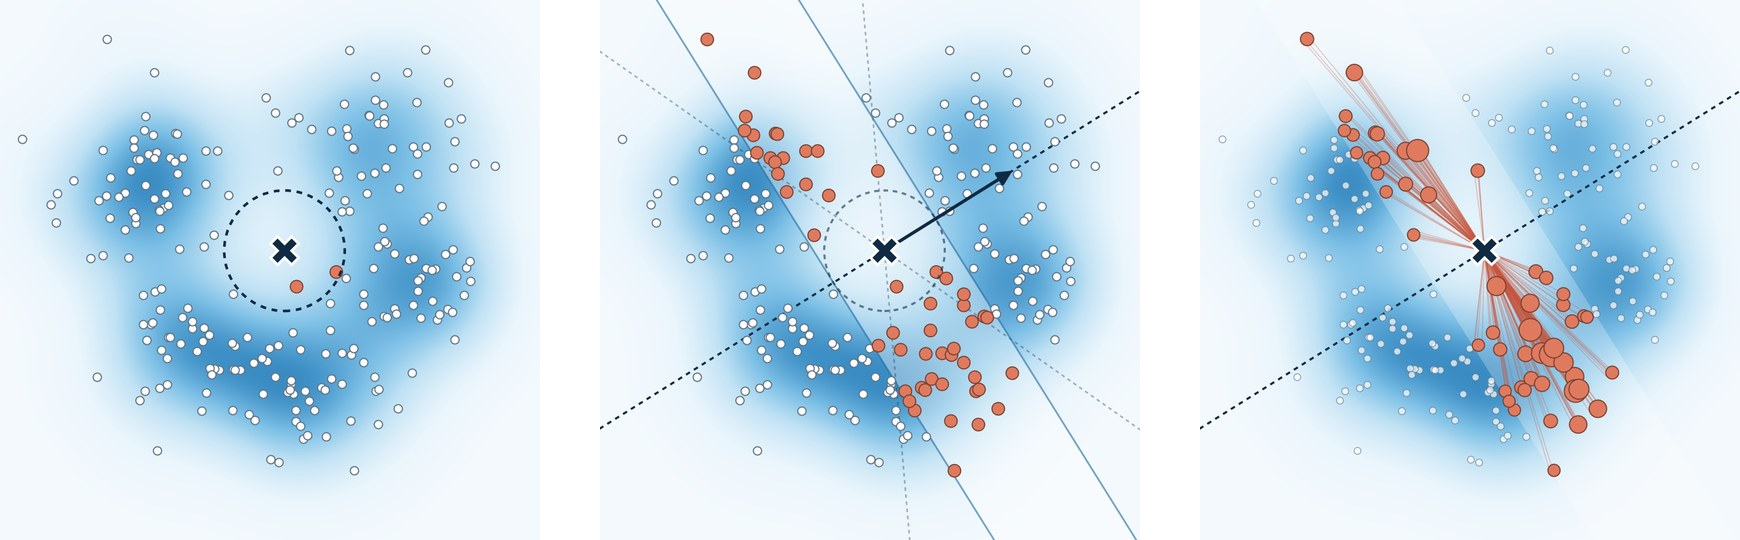
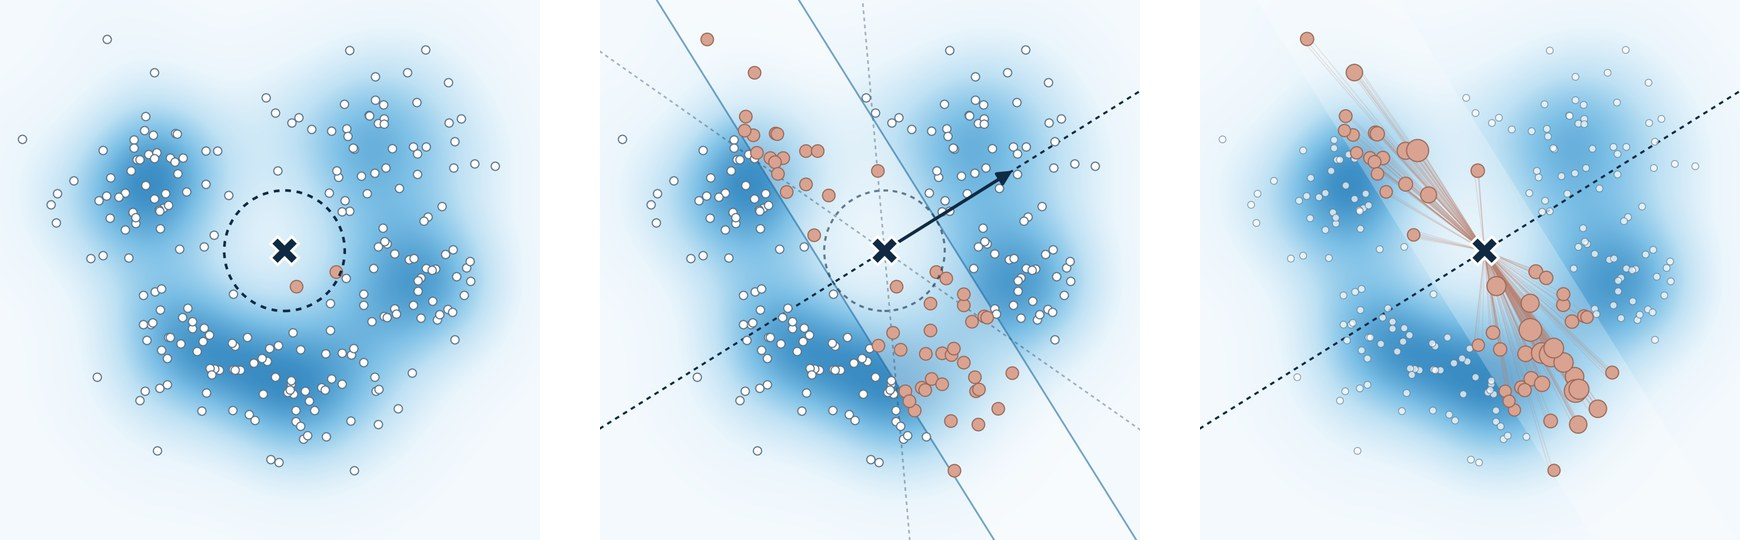
Plainer typography and palette, rename research directions, mute figure accent
Claude-Session: https://claude.ai/code/session_0114fWJ3frxqWYcAUYCuZCR1

diff --git a/index.html b/index.html
@@ -21,7 +21,7 @@
   </script>
   <link rel="preconnect" href="https://fonts.googleapis.com" />
   <link rel="preconnect" href="https://fonts.gstatic.com" crossorigin />
-  <link rel="stylesheet" href="https://fonts.googleapis.com/css2?family=Atkinson+Hyperlegible:wght@400;700&family=Crimson+Pro:ital,wght@0,500;0,600;1,500&display=swap" />
+  <link rel="stylesheet" href="https://fonts.googleapis.com/css2?family=Atkinson+Hyperlegible:ital,wght@0,400;0,700;1,400&display=swap" />
   <link rel="stylesheet" href="/assets/css/site.css" />
 </head>
 <body>
@@ -56,11 +56,11 @@
       </section>
       <section class="research-directions" aria-labelledby="research-heading">
         <div class="section-topline"><h2 id="research-heading">Research directions</h2><span>What I work on</span></div>
-        <div class="directions-grid"><a href="/publications/#fp-sac" class="direction"><span class="direction-number">01</span><h3>Expressive models</h3><p>Policies and generative models that capture multi-modal behavior instead of collapsing to a single mode.</p><span class="direction-arrow" aria-hidden="true">↗</span></a><a href="/publications/#hype-ccdm" class="direction"><span class="direction-number">02</span><h3>High-dimensional learning</h3><p>Learning that stays reliable as conditions and state spaces grow high-dimensional.</p><span class="direction-arrow" aria-hidden="true">↗</span></a><a href="/publications/#nanodiff" class="direction"><span class="direction-number">03</span><h3>Physical consistency</h3><p>Building PDEs and stochastic processes into learning so that models stay consistent with physics.</p><span class="direction-arrow" aria-hidden="true">↗</span></a></div>
+        <div class="directions-grid"><a href="/publications/#fp-sac" class="direction"><span class="direction-number">01</span><h3>Expressivity</h3><p>Policies and generative models that capture multi-modal behavior instead of collapsing to a single mode.</p></a><a href="/publications/#hype-ccdm" class="direction"><span class="direction-number">02</span><h3>Scalability</h3><p>Learning that stays reliable as conditions and state spaces grow high-dimensional.</p></a><a href="/publications/#nanodiff" class="direction"><span class="direction-number">03</span><h3>Physical consistency</h3><p>Building PDEs and stochastic processes into learning so that models stay consistent with physics.</p></a></div>
       </section>
       <section class="selected-section" aria-labelledby="selected-heading">
-        <div class="section-topline"><h2 id="selected-heading">Selected publications</h2><a href="/publications/">All publications <span aria-hidden="true">↗</span></a></div>
-        <div class="selected-grid"><a class="selected-card" href="/publications/#hype-ccdm"><div class="figure-box selected-image strip"><svg class="research-thumbnail" viewBox="0 0 600 224" role="img" aria-label="Euclidean vicinity with few neighbors, a random projection band with many neighbors, and prioritized sampling of close neighbors."><image href="/assets/img/hype-ccdm-panels.jpg" x="0" y="0" width="600" height="186.2" preserveAspectRatio="xMidYMid meet"/><text x="93.1" y="212" text-anchor="middle" class="fig-label">Euclidean vicinity</text><text x="300.0" y="212" text-anchor="middle" class="fig-label">Random projections</text><text x="506.9" y="212" text-anchor="middle" class="fig-label fig-label-accent">Prioritized sampling</text></svg></div><div class="selected-meta"><span>Generative models</span><span>Preprint </span></div><h3>HYPE-CCDM <span aria-hidden="true">↗</span></h3><p>Continuous conditional generation beyond scalar labels.</p></a><a class="selected-card" href="/publications/#fp-sac"><div class="figure-box selected-image strip"><svg class="research-thumbnail" viewBox="0 0 600 224" role="img" aria-label="Trajectories in a 2D multi-goal environment for SAC-NF, WGASAC, and FP-SAC."><image href="/assets/img/fp-sac-panels.jpg" x="0" y="0" width="600" height="186.2" preserveAspectRatio="xMidYMid meet"/><text x="93.1" y="212" text-anchor="middle" class="fig-label">SAC-NF</text><text x="300.0" y="212" text-anchor="middle" class="fig-label">WGASAC</text><text x="506.9" y="212" text-anchor="middle" class="fig-label fig-label-accent">FP-SAC</text></svg></div><div class="selected-meta"><span>Reinforcement learning</span><span>IEEE TNNLS 2026</span></div><h3>FP-SAC <span aria-hidden="true">↗</span></h3><p>Learning multi-modal policies without mode collapse.</p></a></div>
+        <div class="section-topline"><h2 id="selected-heading">Selected publications</h2><a href="/publications/">All publications</a></div>
+        <div class="selected-grid"><a class="selected-card" href="/publications/#hype-ccdm"><div class="figure-box selected-image strip"><svg class="research-thumbnail" viewBox="0 0 600 224" role="img" aria-label="Euclidean vicinity with few neighbors, a random projection band with many neighbors, and prioritized sampling of close neighbors."><image href="/assets/img/hype-ccdm-panels.jpg" x="0" y="0" width="600" height="186.2" preserveAspectRatio="xMidYMid meet"/><text x="93.1" y="212" text-anchor="middle" class="fig-label">Euclidean vicinity</text><text x="300.0" y="212" text-anchor="middle" class="fig-label">Random projections</text><text x="506.9" y="212" text-anchor="middle" class="fig-label fig-label-accent">Prioritized sampling</text></svg></div><div class="selected-meta"><span>Generative models</span><span>Preprint </span></div><h3>HYPE-CCDM</h3><p>Continuous conditional generation beyond scalar labels.</p></a><a class="selected-card" href="/publications/#fp-sac"><div class="figure-box selected-image strip"><svg class="research-thumbnail" viewBox="0 0 600 224" role="img" aria-label="Trajectories in a 2D multi-goal environment for SAC-NF, WGASAC, and FP-SAC."><image href="/assets/img/fp-sac-panels.jpg" x="0" y="0" width="600" height="186.2" preserveAspectRatio="xMidYMid meet"/><text x="93.1" y="212" text-anchor="middle" class="fig-label">SAC-NF</text><text x="300.0" y="212" text-anchor="middle" class="fig-label">WGASAC</text><text x="506.9" y="212" text-anchor="middle" class="fig-label fig-label-accent">FP-SAC</text></svg></div><div class="selected-meta"><span>Reinforcement learning</span><span>IEEE TNNLS 2026</span></div><h3>FP-SAC</h3><p>Learning multi-modal policies without mode collapse.</p></a></div>
       </section>
     </main>
     <footer class="site-footer"><p>&copy; 2026 Jaewon Kim.</p></footer>

diff --git a/assets/css/site.css b/assets/css/site.css
@@ -4,19 +4,19 @@
    ------------------------------------------------------------------ */
 
 :root {
-  --paper: #fbfaf6;
-  --ink: #232622;
-  --ink-strong: #161918;
-  --muted: #65645e;
-  --rule: #ddd7cd;
-  --card: #f1eee6;
-  --accent: #365f6b;
-  --accent-hover: #294652;
-  --accent-soft: #a5b7b8;
-  --header-bg: rgb(251 250 246 / 0.82);
+  --paper: #ffffff;
+  --ink: #1f2328;
+  --ink-strong: #111418;
+  --muted: #57606a;
+  --rule: #e4e7eb;
+  --card: #f3f5f7;
+  --accent: #1f5fa8;
+  --accent-hover: #174a85;
+  --accent-soft: #a9c3e2;
+  --header-bg: rgb(255 255 255 / 0.88);
   --figure-bg: #ffffff;
-  --glow: rgb(103 154 170 / 0.1);
-  --serif: "Crimson Pro", Georgia, serif;
+  --glow: transparent;
+  --serif: var(--sans);
   --sans: "Atkinson Hyperlegible", system-ui, -apple-system, "Segoe UI", sans-serif;
 }
 
@@ -27,12 +27,12 @@ html.dark {
   --muted: #b1b6ad;
   --rule: #383e39;
   --card: #212723;
-  --accent: #a8ccd4;
+  --accent: #8ab8ec;
   --accent-hover: #c9e0e5;
   --accent-soft: #4b6a72;
   --header-bg: rgb(22 25 24 / 0.82);
   --figure-bg: #f7f6f2;
-  --glow: rgb(73 125 144 / 0.12);
+  --glow: transparent;
 }
 
 *,
@@ -413,7 +413,27 @@ html.dark .cv-reader { background: #303632; }
 .figure-box.strip { display: block; height: auto; padding: 14px 14px 8px; }
 .research-thumbnail { display: block; width: 100%; height: auto; }
 .fig-label { font-family: var(--sans); font-size: 15px; fill: #4b514d; }
-.fig-label-accent { fill: #365f6b; font-weight: 700; }
+.fig-label-accent { fill: #1f5fa8; font-weight: 700; }
 .research-project { grid-template-columns: 380px minmax(0, 1fr); gap: 44px; }
 @media (max-width: 900px) { .research-project { grid-template-columns: 300px minmax(0, 1fr); gap: 30px; } }
 @media (max-width: 640px) { .research-project { grid-template-columns: 1fr; gap: 22px; } }
+
+/* ---------- Typography: one sans family, modest headings ---------- */
+.site-title { font-size: 1.15rem; font-weight: 700; letter-spacing: 0; }
+.home-intro h1 { font-size: clamp(2.3rem, 4.2vw, 2.9rem); font-weight: 700; letter-spacing: -.015em; line-height: 1.1; }
+.page-intro h1 { font-size: 2.6rem; font-weight: 700; letter-spacing: -.015em; line-height: 1.1; margin: 0 0 14px; }
+.intro-role { margin-top: 8px; }
+.intro-lead { font-size: 1.3rem; font-weight: 400; line-height: 1.45; letter-spacing: 0; margin: 22px 0 18px; color: var(--ink); }
+.section-topline h2 { font-size: 1.4rem; font-weight: 700; letter-spacing: -.005em; }
+.direction h3 { font-size: 1.12rem; font-weight: 700; letter-spacing: 0; margin: 8px 0 8px; }
+.selected-card h3 { font-size: 1.2rem; font-weight: 700; letter-spacing: 0; }
+.project-copy h2 { font-size: 1.3rem; font-weight: 700; letter-spacing: -.005em; line-height: 1.35; }
+.venue { letter-spacing: .04em; }
+.figure-placeholder strong { font-size: 1.2rem; font-weight: 700; letter-spacing: 0; }
+.nav-link[aria-current="page"] { border-bottom-color: var(--accent); }
+@media (max-width: 640px) {
+  .home-intro h1 { font-size: 2.3rem; }
+  .page-intro h1 { font-size: 2.2rem; }
+  .intro-lead { font-size: 1.2rem; }
+  .project-copy h2 { font-size: 1.2rem; }
+}

diff --git a/publications/index.html b/publications/index.html
@@ -21,7 +21,7 @@
   </script>
   <link rel="preconnect" href="https://fonts.googleapis.com" />
   <link rel="preconnect" href="https://fonts.gstatic.com" crossorigin />
-  <link rel="stylesheet" href="https://fonts.googleapis.com/css2?family=Atkinson+Hyperlegible:wght@400;700&family=Crimson+Pro:ital,wght@0,500;0,600;1,500&display=swap" />
+  <link rel="stylesheet" href="https://fonts.googleapis.com/css2?family=Atkinson+Hyperlegible:ital,wght@0,400;0,700;1,400&display=swap" />
   <link rel="stylesheet" href="/assets/css/site.css" />
 </head>
 <body>
@@ -40,11 +40,10 @@
     </header>
     <main id="main" tabindex="-1">
       <header class="page-intro">
-        <p class="eyebrow">Research</p>
         <h1>Publications</h1>
         <p>Generative models, reinforcement learning, and physics-informed learning.<br />A closer look at the questions behind each paper.</p>
       </header>
-      <nav class="project-index" aria-label="Jump to a publication"><a href="#hype-ccdm">HYPE-CCDM<span aria-hidden="true">↘</span></a><a href="#fp-sac">FP-SAC<span aria-hidden="true">↘</span></a><a href="#nanodiff">NanoDiff<span aria-hidden="true">↘</span></a></nav>
+      <nav class="project-index" aria-label="Jump to a publication"><a href="#hype-ccdm">HYPE-CCDM</a><a href="#fp-sac">FP-SAC</a><a href="#nanodiff">NanoDiff</a></nav>
       <div class="project-list">
         <article id="hype-ccdm" class="research-project" aria-labelledby="hype-ccdm-title">
           <div class="project-visual">
@@ -75,7 +74,7 @@
             
             <h3 class="project-question">Learning multi-modal policies without mode collapse.</h3>
             <p class="project-summary">We recast soft policy improvement as steering a policy toward the stationary distribution of a Langevin SDE, and derive a distribution-level objective from the corresponding Fokker–Planck equation. Training normalizing-flow policies by minimizing the PDE residual avoids the mode collapse of reverse-KL updates, improving performance and stability on multi-goal, MuJoCo, and Meta-World benchmarks.</p>
-            <div class="resource-links"><a class="resource-link resource-primary" href="https://ieeexplore.ieee.org/document/11563480">Paper<span aria-hidden="true">↗</span></a><a class="resource-link" href="https://doi.org/10.1109/TNNLS.2026.3699399">DOI<span aria-hidden="true">↗</span></a></div>
+            <div class="resource-links"><a class="resource-link resource-primary" href="https://ieeexplore.ieee.org/document/11563480">Paper</a><a class="resource-link" href="https://doi.org/10.1109/TNNLS.2026.3699399">DOI</a></div>
           </div>
         </article>
         <article id="nanodiff" class="research-project" aria-labelledby="nanodiff-title">

diff --git a/cv/index.html b/cv/index.html
@@ -21,7 +21,7 @@
   </script>
   <link rel="preconnect" href="https://fonts.googleapis.com" />
   <link rel="preconnect" href="https://fonts.gstatic.com" crossorigin />
-  <link rel="stylesheet" href="https://fonts.googleapis.com/css2?family=Atkinson+Hyperlegible:wght@400;700&family=Crimson+Pro:ital,wght@0,500;0,600;1,500&display=swap" />
+  <link rel="stylesheet" href="https://fonts.googleapis.com/css2?family=Atkinson+Hyperlegible:ital,wght@0,400;0,700;1,400&display=swap" />
   <link rel="stylesheet" href="/assets/css/site.css" />
 </head>
 <body>
@@ -40,10 +40,10 @@
     </header>
     <main id="main" tabindex="-1">
       <header class="page-intro cv-intro">
-        <div><p class="eyebrow">Curriculum vitae</p><h1>CV</h1></div>
+        <div><h1>CV</h1></div>
         <div class="cv-actions">
-          <a class="resource-link" href="/assets/pdf/CV_Jaewon_Kim.pdf" target="_blank" rel="noopener">Open PDF <span aria-hidden="true">↗</span></a>
-          <a class="resource-link resource-primary" href="/assets/pdf/CV_Jaewon_Kim.pdf" download>Download <span aria-hidden="true">↓</span></a>
+          <a class="resource-link" href="/assets/pdf/CV_Jaewon_Kim.pdf" target="_blank" rel="noopener">Open PDF</a>
+          <a class="resource-link resource-primary" href="/assets/pdf/CV_Jaewon_Kim.pdf" download>Download</a>
         </div>
       </header>
       <section class="cv-reader" aria-label="Curriculum vitae PDF">
